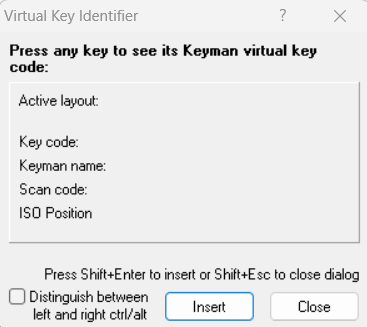
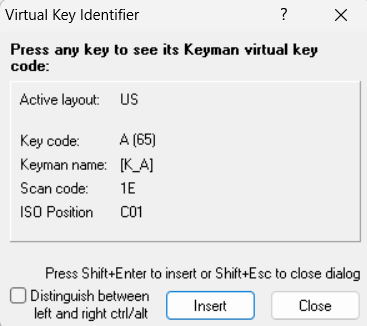
update image and add to 18.0

diff --git a/developer/18.0/context/key-test.md b/developer/18.0/context/key-test.md
@@ -1,0 +1,21 @@
+---
+title: Virtual Key Identifier
+---
+  
+![Virtual Key Identifier dialog](/cdn/dev/img/developer/170/ui/frmKeyTest.png)
+
+This dialog lets you check the virtual key code for any key combination
+(except Window reserved key combinations such as
+<kbd>Alt</kbd> + <kbd>Tab</kbd>). You can then
+insert the virtual key code into the last active edit window at the
+current cursor position.
+
+Press
+<kbd>Ctrl</kbd> / <kbd>Shift</kbd> / <kbd>Alt</kbd>
+and the key you wish to discover. You can see the virtual key codes for
+left and right <kbd>Ctrl</kbd> / <kbd>Alt</kbd> combinations by checking the "Distinguish between left and right ctrl/alt" checkbox.
+
+To close the dialog, click the Close button or press
+<kbd>Shift</kbd> + <kbd>Esc</kbd>.
+
+Press <kbd>Shift</kbd> + <kbd>Enter</kbd> to insert the current virtual key code into your source at the insertion point.
